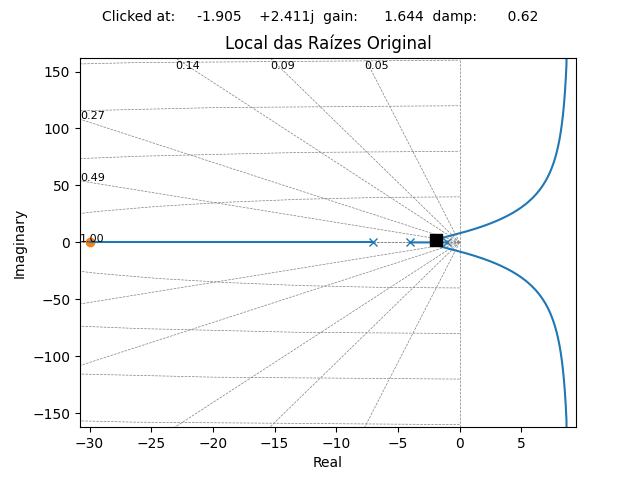
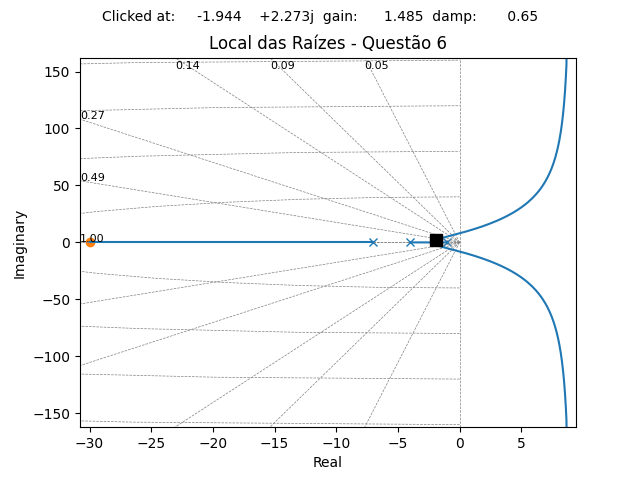
Questoes 1-7 qissi = 0.65

Changed region(s): [[0.3125, 0.0, 0.75, 0.125], [0.8125, 0.0312, 0.8438, 0.0625]]

diff --git a/ControladorPD.py b/ControladorPD.py
@@ -52,7 +52,7 @@ def Questao(questao,zero,k,s):
     print("Sistema: " + str(SISTEMA))
     print("Questão " + str(questao) + ".1: Figura " + str(figure))
     local_das_raizes(SISTEMA,questao)
-    print("Para um ξ de 0.62 temos:  k = " + str(k) + " e s = " + str(s))
+    print("Para um ξ de 0.65 temos:  k = " + str(k) + " e s = " + str(s))
     print("Questão " + str(questao) + ".2: ")
     margem_de_ganho_e_fase(SISTEMA*k)
     print("Questão " + str(questao) + ".3: Gráfico " + str(figure))
@@ -64,9 +64,9 @@ def Questao(questao,zero,k,s):
 print("Questão 1: Figura " + str(figure))
 local_das_raizes(G,1)
 
-print("Para um ξ de 0.62 temos:  k = 43.88 e s = -1.817 + 2.3j")
+print("Para um ξ de 0.65 temos:  k = 39.84 e s = -1.861 + 2.175j")
 
-k = 43.88
+k = 39.84
 
 # Questão 2:
 print("Questão 2:")
@@ -77,13 +77,13 @@ print("Questão 3: Gráfico " + str(figure))
 resposta_ao_degrau(G*k,3)
 
 # Questão 4:
-Questao(4,3,41.9, -4.609 + 5.832j)
+Questao(4, 3, 37.07, -4.626 + 5.408j)
 # Questão 5:
-Questao(5, 15, 3.765, -2.02 +2.556j)
+Questao(5, 15, 3.381, -2.052 +2.399j)
 # Questão 6:
-Questao(6, 30, 1.644, -1.905 + 2.411j)
+Questao(6, 30, 1.485, -1.944 + 2.273j)
 # Questão 7:
-Questao(7, 40, 1.196, -1.881 + 2.381j)
+Questao(7, 40, 1.082, -1.921 + 2.247j)
 
 
 plt.show()
